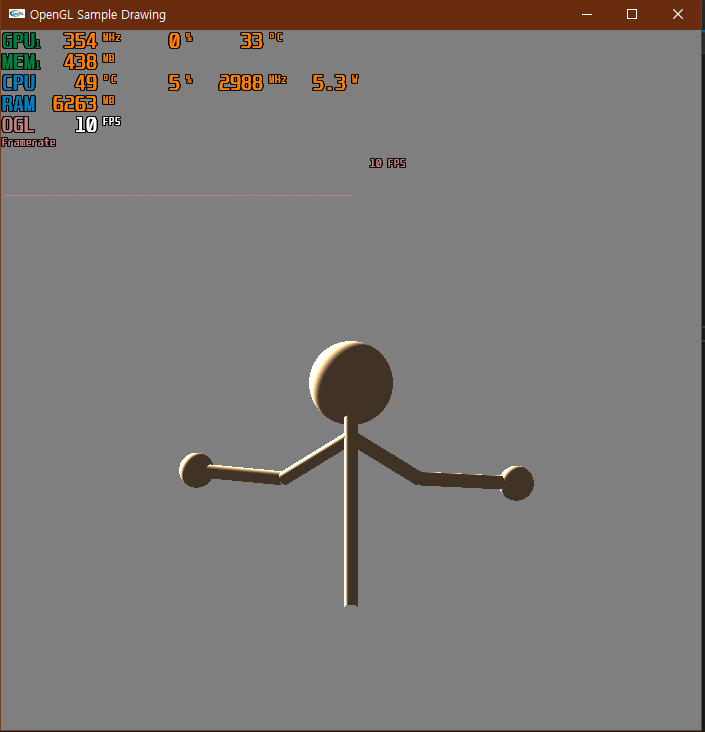
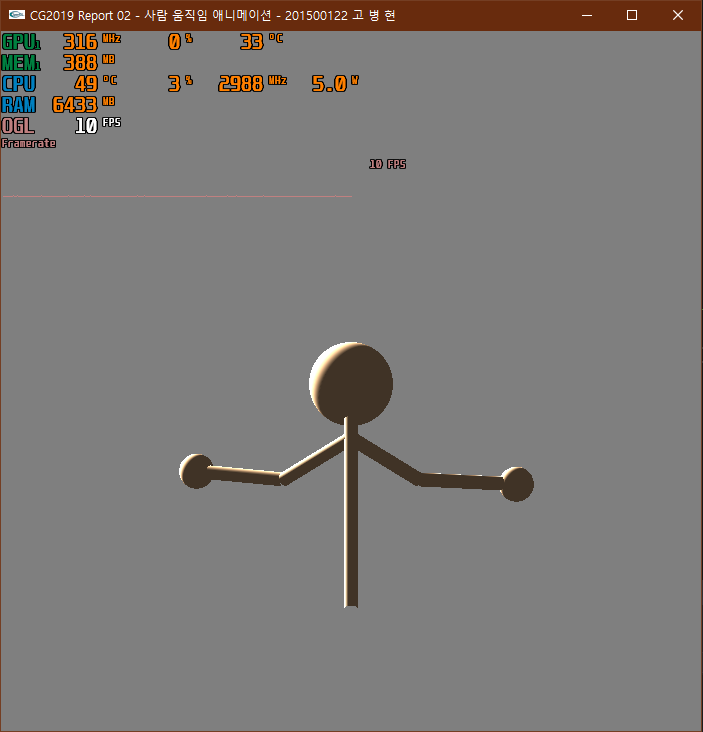
Title revise

diff --git a/CGRepo02/CGRepo02/CGRepo02.cpp b/CGRepo02/CGRepo02/CGRepo02.cpp
@@ -174,7 +174,7 @@ int main(int argc, char** argv) {
 	glutInitDisplayMode(GLUT_DOUBLE | GLUT_RGBA | GLUT_DEPTH); //애니메이션 구현에 double buffer를 사용
 	glutInitWindowSize(700, 700);
 	glutInitWindowPosition(0, 0);
-	glutCreateWindow("사람 움직임 애니메이션 - 201500122 고 병 현");
+	glutCreateWindow("CG2019 Report 02 - 사람 움직임 애니메이션 - 201500122 고 병 현");
 	glClearColor(0.5, 0.5, 0.5, 0.0);
 	InitLight();
 	InitVisibility();
